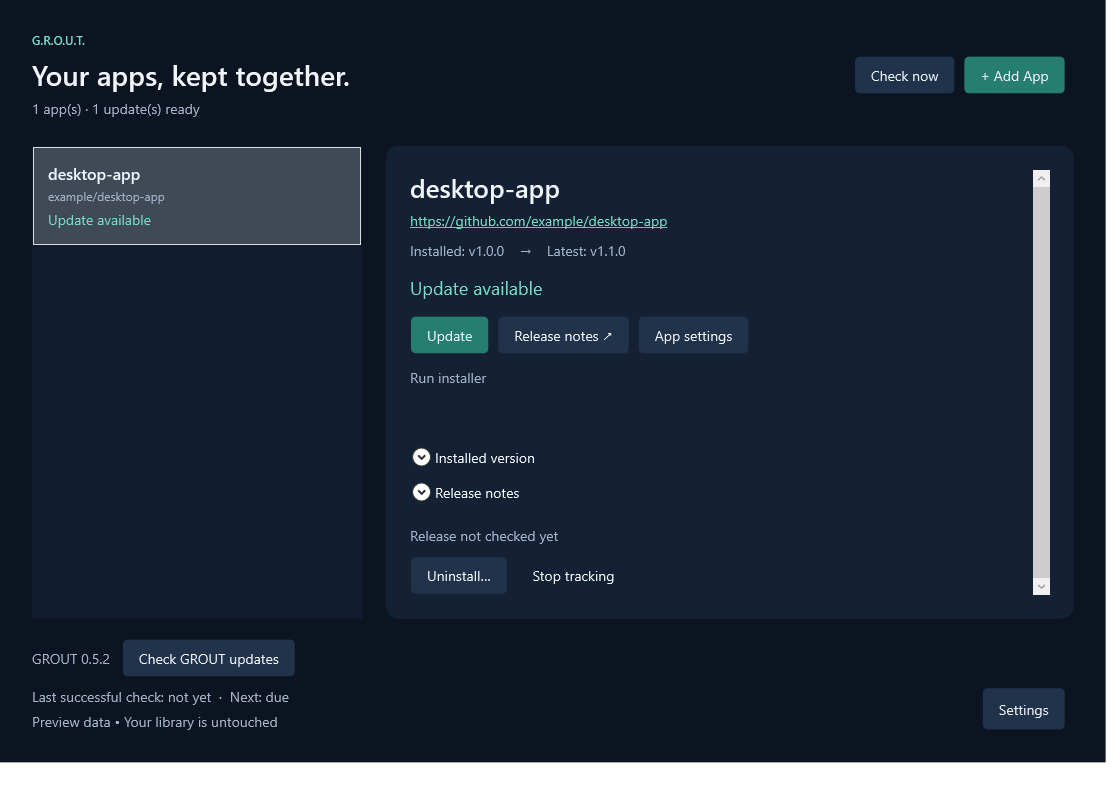
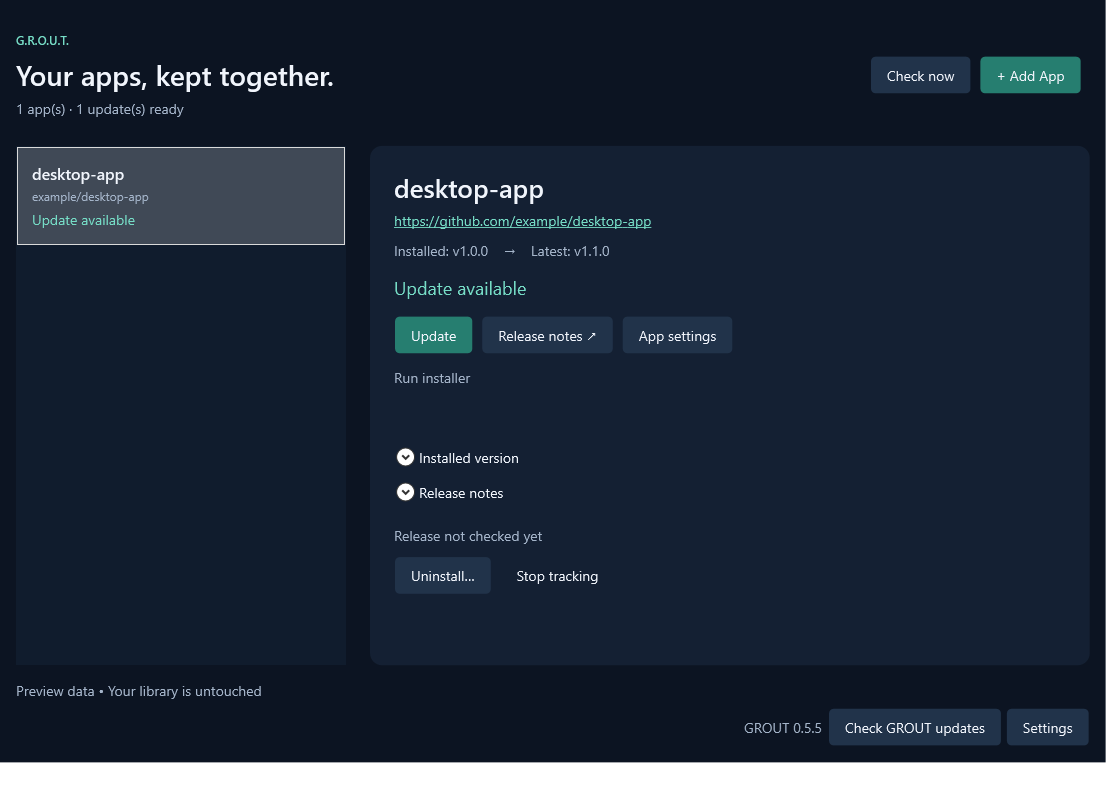
Polish main window spacing and refresh documentation for 0.5.5

diff --git a/ReleaseDock/MainWindow.xaml b/ReleaseDock/MainWindow.xaml
@@ -1,5 +1,5 @@
 <Window x:Class="ReleaseDock.MainWindow" xmlns="http://schemas.microsoft.com/winfx/2006/xaml/presentation" xmlns:x="http://schemas.microsoft.com/winfx/2006/xaml" Title="G.R.O.U.T." Icon="Assets/GROUT.ico" Width="1120" Height="800" MinWidth="940" MinHeight="650" Background="#0C1422" FontFamily="Segoe UI" FontSize="14" WindowStartupLocation="CenterScreen">
- <Grid Margin="32">
+ <Grid Margin="16,32,16,16">
   <Grid.RowDefinitions><RowDefinition Height="Auto"/><RowDefinition Height="*"/><RowDefinition Height="Auto"/></Grid.RowDefinitions>
   <DockPanel Margin="0,0,0,28">
    <WrapPanel DockPanel.Dock="Right" VerticalAlignment="Center" Margin="16,0,0,0"><Button x:Name="CheckButton" Content="Check now" Click="Check_Click"/><Button x:Name="AddAppButton" Content="+ Add App" Click="Add_Click" Background="#267E70"/></WrapPanel>
@@ -35,8 +35,18 @@
     </StackPanel></ScrollViewer>
    </Border>
   </Grid>
-  <StackPanel Grid.Row="2" Margin="0,20,0,0"><WrapPanel Margin="0,0,0,10"><TextBlock x:Name="SelfUpdateLabel" VerticalAlignment="Center" Foreground="#A4B4C9" Margin="0,0,12,0"/><Button x:Name="CheckSelfButton" Content="Check GROUT updates" Click="CheckSelf_Click"/><Button x:Name="InstallSelfButton" Content="Update and restart" Click="InstallSelf_Click" Visibility="Collapsed" Background="#267E70"/></WrapPanel><ProgressBar x:Name="Progress" Height="4" Minimum="0" Maximum="100" Visibility="Collapsed" Margin="0,0,0,10"/><Button x:Name="CancelDownload" Content="Cancel download" Click="Cancel_Click" Visibility="Collapsed" HorizontalAlignment="Left" Margin="0,0,0,10"/>
-   <DockPanel><Button x:Name="SettingsButton" DockPanel.Dock="Right" Content="Settings" Click="Settings_Click"/><StackPanel><TextBlock x:Name="ScheduleLabel" Foreground="#A4B4C9" TextWrapping="Wrap"/><TextBlock x:Name="StatusLabel" Foreground="#A4B4C9" TextWrapping="Wrap" Margin="0,6,12,0"/></StackPanel></DockPanel>
+  <StackPanel Grid.Row="2" Margin="0,16,0,0">
+   <ProgressBar x:Name="Progress" Height="4" Minimum="0" Maximum="100" Visibility="Collapsed" Margin="0,0,0,10"/>
+   <Button x:Name="CancelDownload" Content="Cancel download" Click="Cancel_Click" Visibility="Collapsed" HorizontalAlignment="Left" Margin="0,0,0,10"/>
+   <TextBlock x:Name="StatusLabel" Foreground="#A4B4C9" TextWrapping="Wrap" Margin="0,0,12,8">
+    <TextBlock.Style><Style TargetType="TextBlock"><Style.Triggers><Trigger Property="Text" Value=""><Setter Property="Visibility" Value="Collapsed"/></Trigger></Style.Triggers></Style></TextBlock.Style>
+   </TextBlock>
+   <WrapPanel HorizontalAlignment="Right">
+    <TextBlock x:Name="SelfUpdateLabel" VerticalAlignment="Center" Foreground="#A4B4C9" Margin="0,0,6,0"/>
+    <Button x:Name="CheckSelfButton" Content="Check GROUT updates" Click="CheckSelf_Click" Margin="0,0,4,0"/>
+    <Button x:Name="InstallSelfButton" Content="Update and restart" Click="InstallSelf_Click" Visibility="Collapsed" Background="#267E70" Margin="0,0,4,0"/>
+    <Button x:Name="SettingsButton" Content="Settings" Click="Settings_Click" Margin="0"/>
+   </WrapPanel>
   </StackPanel>
  </Grid>
 </Window>

diff --git a/ReleaseDock/MainWindow.xaml.cs b/ReleaseDock/MainWindow.xaml.cs
@@ -66,7 +66,7 @@ public partial class MainWindow : Window
         };
         Closed += (_, _) => { timer.Stop(); if (tray != null) { tray.Visible = false; tray.ContextMenuStrip?.Dispose(); tray.Dispose(); tray = null; } trayIcon?.Dispose(); trayIcon = null; github.Dispose(); selfUpdater.Dispose(); };
         Activated += (_, _) => { if (!busy && OwnedWindows.Count == 0) ReconcileAll(); };
-        timer.Tick += async (_, _) => { if (busy || OwnedWindows.Count > 0) return; ReconcileAll(); if (preferences.IsDue(DateTimeOffset.UtcNow) && apps.Count > 0) await CheckAll(false); await CheckSelf(false); RenderSchedule(); };
+        timer.Tick += async (_, _) => { if (busy || OwnedWindows.Count > 0) return; ReconcileAll(); if (preferences.IsDue(DateTimeOffset.UtcNow) && apps.Count > 0) await CheckAll(false); await CheckSelf(false); };
         timer.Start();
         Loaded += async (_, _) =>
         {
@@ -138,12 +138,6 @@ public partial class MainWindow : Window
     internal bool TrayVisible => tray?.Visible == true;
     private void Persist() { if (preview) return; if (!busy && OwnedWindows.Count == 0) StorageCleanup.Sweep(apps); store.Save(apps); preferences.SourceBackoffs = github.Backoffs; preferences.Save(preferencesPath); Library.Items.Refresh(); }
     private void SafePersist() { try { Persist(); } catch (Exception ex) { StatusLabel.Text = "Could not save: " + ex.Message; } }
-    private void RenderSchedule()
-    {
-        var last = preferences.LastSuccess is { } time ? time.ToLocalTime().ToString("g") : "not yet";
-        var next = preferences.NextCheck is { } due ? due <= DateTimeOffset.UtcNow ? "due" : due.ToLocalTime().ToString("g") : "manual only";
-        ScheduleLabel.Text = $"Last successful check: {last}  ·  Next: {next}";
-    }
     private void Render()
     {
         var app = Current;
@@ -178,7 +172,7 @@ public partial class MainWindow : Window
         KeepTrackingButton.Visibility = app?.UninstallPending == true ? Visibility.Visible : Visibility.Collapsed;
         Notes.Text = app?.Release?.Notes ?? "Check for releases to load notes.";
         CheckedLabel.Text = app?.CheckedAt is { } time ? $"Release checked {time.ToLocalTime():g}" : "Release not checked yet";
-        RenderSchedule();
+
     }
     private void ReconcileAll()
     {
@@ -241,7 +235,7 @@ public partial class MainWindow : Window
     private void Settings_Click(object sender, RoutedEventArgs e)
     {
         if (busy || preview || OwnedWindows.Count > 0) return;
-        try { if (SettingsWindow.Show(this, preferences)) { RenderSchedule(); StatusLabel.Text = "Settings saved."; } }
+        try { if (SettingsWindow.Show(this, preferences)) { StatusLabel.Text = "Settings saved."; } }
         catch (Exception ex) { StatusLabel.Text = ex.Message; }
     }
     private void Selected(object sender, SelectionChangedEventArgs e) { Render(); VersionSection.IsExpanded = Current is { } app && (app.Installed.Length == 0 || app.LocalError); }

diff --git a/ReleaseDock/App.xaml.cs b/ReleaseDock/App.xaml.cs
@@ -86,10 +86,7 @@ public partial class App : Application
                 }
                 window.Show();
                 await System.Windows.Threading.Dispatcher.Yield(System.Windows.Threading.DispatcherPriority.ApplicationIdle);
-                var bitmap = new RenderTargetBitmap((int)window.ActualWidth, (int)window.ActualHeight, 96, 96, PixelFormats.Pbgra32);
-                bitmap.Render(window);
-                var encoder = new PngBitmapEncoder(); encoder.Frames.Add(BitmapFrame.Create(bitmap));
-                using (var file = File.Create(output)) encoder.Save(file);
+                SavePreview(window, output);
                 window.Close(); Shutdown(); return;
             }
             if (e.Args is ["--preview-setup", var setupOutput])
@@ -98,16 +95,13 @@ public partial class App : Application
                 var window = new SetupWindow(github, [], preview: true);
                 window.Show();
                 await System.Windows.Threading.Dispatcher.Yield(System.Windows.Threading.DispatcherPriority.ApplicationIdle);
-                var bitmap = new RenderTargetBitmap((int)window.ActualWidth, (int)window.ActualHeight, 96, 96, PixelFormats.Pbgra32);
-                bitmap.Render(window);
-                var encoder = new PngBitmapEncoder(); encoder.Frames.Add(BitmapFrame.Create(bitmap));
-                using (var file = File.Create(setupOutput)) encoder.Save(file);
+                SavePreview(window, setupOutput);
                 window.Close(); Shutdown(); return;
             }
             if (e.Args is ["--preview-app-settings", var settingsOutput])
             {
                 using var github = new ReleaseClient();
-                var sample = new TrackedApp { Repo = "example/desktop-app", Installed = "1.0.36.0", Latest = "hub-1.0.36", InstallLocation = @"C:\Apps\MultiverseVRHub.exe", UpdateMethod = "ReplaceExe", AssetName = "MultiverseVRHub.exe", Release = new("hub-1.0.36", "", "", [new("MultiverseVRHub.exe", "", 5760000, null)]) };
+                var sample = new TrackedApp { Repo = "example/desktop-app", Installed = "1.0.0", Latest = "v1.1.0", InstallLocation = @"C:\Apps\DesktopApp\DesktopApp.exe", UpdateMethod = "ReplaceExe", AssetName = "DesktopApp.exe", Release = new("v1.1.0", "", "", [new("DesktopApp.exe", "", 5760000, null)]) };
                 var window = new SetupWindow(github, [], edit: sample); window.Show();
                 await System.Windows.Threading.Dispatcher.Yield(System.Windows.Threading.DispatcherPriority.ApplicationIdle);
                 SavePreview(window, settingsOutput); window.Close(); Shutdown(); return;

diff --git a/ReleaseDock/SetupWindow.cs b/ReleaseDock/SetupWindow.cs
@@ -70,7 +70,7 @@ public sealed class SetupWindow : Window
         {
             Result = new() { Repo = "example/desktop-app", Installed = "v1.0.0", Latest = "v1.1.0", InstallLocation = @"C:\Apps\DesktopApp", UpdateTarget = @"C:\Apps\DesktopApp", UpdateMethod = "Installer", Release = new("v1.1.0", "", "", [new("DesktopApp-1.1.0-x64.exe", "", 100000, null)]) };
             if (previewStage == "first") { ScreenOne(); lookupTimer.Stop(); }
-            else { newInstall = previewStage is "install" or "portable"; if (newInstall) { SetupPaths.ClearExistingTracking(Result); if (previewStage == "portable") Result.UpdateMethod = "ReplaceExe"; } ScreenTwo(); }
+            else { newInstall = previewStage is "install" or "portable"; if (newInstall) { SetupPaths.ClearExistingTracking(Result); Result.UpdateTarget = @"C:\Apps"; if (previewStage == "portable") Result.UpdateMethod = "ReplaceExe"; } ScreenTwo(); }
         }
         else ScreenOne();
     }

diff --git a/ReleaseDock/WizardTests.cs b/ReleaseDock/WizardTests.cs
@@ -93,7 +93,7 @@ public static class WizardTests
             main.Show();
             Check(main.IsVisible, "Hidden main window can reopen");
             Check(Children<Button>(main).Single(b => Equals(b.Content, "Update")).IsEnabled, "Cached checked release enables Update after restart");
-            Check(Children<TextBlock>(main).Any(t => t.Text.Contains("manual only")), "Manual polling schedule is visible");
+            Check(!Children<TextBlock>(main).Any(t => t.Text.Contains("Last successful check:")), "Footer omits polling timestamps");
             main.StopWindow();
             Check(!main.TrayVisible, "Explicit stop removes tray icon");
         }

diff --git a/docs/user-guide.md b/docs/user-guide.md
@@ -19,7 +19,9 @@ Tracking an existing app does not require a usable Windows download or successfu
 
 ### Portable EXE
 
-Choose **Save as a portable app**, select **Save in folder**, and confirm the filename and full destination. **Save and add app** saves the EXE without running it. Future updates replace that exact file.
+Choose **Save as a portable app**, select **Save in folder**, and confirm the filename and full destination. **Save and add app** saves the EXE without running it. Future updates replace that exact file without a file-review screen.
+
+<img src="images/portable-exe.png" alt="Portable EXE setup with one destination folder, filename and Save and add app button" width="580">
 
 GROUT records the release it saved. If the EXE supplies matching version metadata, automatic version reading is enabled. If metadata is missing or differs, GROUT retains the applied release and explains its source instead of treating the file save as a failure.
 
@@ -43,7 +45,7 @@ Cancelling setup does not add an app to the library or undo an installation alre
 
 **App settings** has one **App folder** field. For portable EXEs, **App file** is a filename; GROUT derives and displays the full replacement path. You can edit the app's display name here too.
 
-<img src="images/app-settings.png" alt="App settings with the app name, folder, release download and update method" width="580">
+<img src="images/app-settings.png" alt="App settings showing an editable repository URL, app name, app folder, app filename and update method" width="580">
 
 | Update method | Behavior |
 | --- | --- |
@@ -58,7 +60,7 @@ The selected download is remembered across version-number changes when the same 
 
 ZIP updates overwrite every included file, including matching settings/save files. Files absent from the archive are left unchanged. There is no file-selection screen.
 
-Temporary rollback copies protect a file update while it is applied. Completed updates **do not retain recovery backups**. If an operation cannot roll back safely, recovery information is retained for troubleshooting.
+Temporary rollback copies protect a file update internally while it is applied; there is no backup setup or backup-review screen. Completed updates **do not retain recovery backups**. If an operation cannot roll back safely, recovery information is retained for troubleshooting.
 
 ## Installed versions
 
@@ -81,9 +83,11 @@ Use **Installed version** to recheck once, enter a version, or **Mark latest as 
 
 GROUT checks saved locations even for manually tracked apps. Missing locations show **App not found**, with **Find installation** and **Stop tracking** as the main choices. Update, uninstall and version editing are disabled until the location is resolved. The previous version stays labeled as the last known version.
 
+<img src="images/missing-app.png" alt="App not found banner with Find installation and Stop tracking choices and disabled update controls" width="850">
+
 ## Checks, tray and startup
 
-In **Settings**, choose **Manual only**, **Every hour**, **Every 6 hours**, or **Every day** for tracked-app release checks. Daily is the default. Due checks run on launch and after wake; last-success and next-check times appear in the main window. Source-specific rate-limit/access pauses survive restarts.
+In **Settings**, choose **Manual only**, **Every hour**, **Every 6 hours**, or **Every day** for tracked-app release checks. Daily is the default. Due checks run on launch and after wake. Source-specific rate-limit/access pauses survive restarts.
 
 Closing the window leaves GROUT in the tray. Double-click the icon to reopen it, or right-click for **Open**, **Check now**, **Settings** and **Exit**. Exit stops checking.
 
@@ -93,7 +97,7 @@ Notifications announce new app/release tags once. **Quiet mode** suppresses them
 
 ## Update GROUT itself
 
-GROUT checks this repository's stable releases on startup and daily, separately from the tracked-app schedule. Turn this off with **Check for GROUT updates automatically (daily)** in Settings, or use **Check GROUT updates** manually.
+GROUT checks this repository's stable releases on startup and daily, separately from the tracked-app schedule. Turn this off with **Check for GROUT updates automatically (daily)** in Settings, or use **Check GROUT updates** manually. The GROUT version and update controls sit immediately to the left of **Settings** at the bottom right of the main window.
 
 Choose **Update and restart** when a newer release is available. GROUT verifies the EXE against the exact release SHA-256 checksum, prepares a helper, closes the running instance, replaces its EXE and relaunches it. Library and settings remain intact. Protected folders may need a manual update; no silent elevation is attempted.
 

diff --git a/TRACKER.md b/TRACKER.md
@@ -225,3 +225,15 @@
 - User explicitly rejected file-conflict review: files must be overwritten directly, and temporary rollback must be internal with no user-facing screen. Removed operational ZIP and portable-EXE overwrite reviews for both fresh installs and updates. ZIP plans apply every archive file, including existing settings/save files; absent files remain unchanged.
 - Removed the review dialog/preview command and backup/apply button wording. Updated setup/settings text and documentation to describe direct extraction/overwrite. Archive validation, safe paths, atomic writes and transient rollback on failures remain internal. No completed rollback copies are retained.
 - Packaged suite passed:17 ZIP-folder assertions cover new, conflicting first install, existing update, settings overwrite, absent-file preservation and scratch cleanup with review hooks that fail if invoked. Portable overwrite regression completes with no review and no retained backup. No real user app files changed during tests.
+
+## 2026-11-01 — Documentation and screenshot refresh
+
+- User requested a documentation agent to audit the documentation and stale screenshots after the footer/layout changes. Audited README, all six docs guides and SECURITY.md against current code; historical release notes remain historical.
+- Updated current interface caption, direct portable/ZIP overwrite explanations, silent temporary rollback, bottom-right self-update controls, removed polling timestamp claims and obsolete --preview-files diagnostic, and refreshed publishing examples using an explicitly illustrative next version.
+- Regenerated library, Add App and App settings previews; added portable EXE and missing-installation images to the user guide. Main-window previews include compact footer and narrower side margins. Previews use isolated sample data; portable setup now uses neutral C:\Apps rather than the current user's profile, and App settings uses a consistent DesktopApp sample.
+- Release build passed without warnings/errors; all five preview commands completed successfully, screenshots were visually inspected, 37 local documentation file/image references resolved, and git diff --check passed. No release published or user library changed.
+
+## 0.5.5 release
+- Approved compact main-window footer and margins; removed polling timestamp line without changing scheduling.
+- Refreshed documentation/screenshots and preview sample data. Full packaged regression suite and documentation links verified.
+

diff --git a/docs/troubleshooting.md b/docs/troubleshooting.md
@@ -27,7 +27,7 @@ Check the visible status and App settings. Common reasons include:
 - The release check failed or the source is in a rate-limit/access pause.
 - No unambiguous Windows asset matches the saved download choice.
 
-If an asset was renamed, select the correct download again. **Show all downloads** can expose unusual filenames. A successful version read does not prove all files are current, especially after a partial ZIP update.
+If an asset was renamed, select the correct download again. **Show all downloads** can expose unusual filenames. A successful version read does not prove all files are current, including files omitted from a release archive.
 
 ## No usable release or download is shown
 
@@ -49,6 +49,10 @@ GROUT attempts rollback if file application fails. Completed operations do not k
 
 Download cancellation leaves destination files unchanged. Once application begins, it completes or attempts rollback rather than cancelling midway through writes.
 
+## ZIP files or settings were overwritten
+
+ZIP installs and updates apply every archive file directly, including matching settings/save files. There is no conflict-review screen. Files not present in the archive remain unchanged, and the archive folder structure is preserved. Temporary rollback is internal and completed updates do not retain backups.
+
 ## Notifications or startup do not behave as expected
 
 - Closing the window keeps GROUT in the tray; **Exit** stops checks.
@@ -58,7 +62,7 @@ Download cancellation leaves destination files unchanged. Once application begin
 
 ## GROUT does not update itself
 
-Use **Check GROUT updates** to retry. Only newer stable releases with the expected Windows x64 EXE and checksum file are offered. Previews and older versions are not installed.
+Use **Check GROUT updates**, beside **Settings** at the bottom right, to retry. Only newer stable releases with the expected Windows x64 EXE and checksum file are offered. Previews and older versions are not installed.
 
 Version 0.4.x needs a manual upgrade to 0.5.0 first. Keep the EXE in a permanent writable folder; protected locations may require manual replacement. Self-updates require no GitHub CLI or authentication.
 

diff --git a/docs/releasing.md b/docs/releasing.md
@@ -38,16 +38,16 @@ If a running local release EXE locks the output, a separate `build-*` subfolder 
 ## Publish a new version
 
 1. Update `<Version>` in [`ReleaseDock/ReleaseDock.csproj`](../ReleaseDock/ReleaseDock.csproj).
-2. Add notes under `releases/`, for example `releases/v0.5.1.md` for a new 0.5.1 release.
+2. Add notes under `releases/`, for example `releases/v0.6.0.md` for a new 0.6.0 release (substitute the next version you intend to publish).
 3. Commit the code and notes on `main`. The checkout must be clean and origin must match the target repository.
 4. Publish:
 
 ```powershell
 dotnet tool run dotnet-script -- scripts/release.csx -- `
-  --notes releases/v0.5.1.md --publish
+  --notes releases/v0.6.0.md --publish
 ```
 
-This example assumes the project has already been changed to 0.5.1. Optional `--version` must match the project; it does not edit it.
+This example assumes the project has already been changed to 0.6.0. Optional `--version` must match the project; it does not edit it.
 
 The script builds in a new directory, enforces single-EXE output and runs packaged tests. It pushes `main`, creates a draft release targeting the tested commit, uploads all five assets and verifies their SHA-256 digests and sizes. Only then does it publish as latest. Repository visibility is unchanged.
 
@@ -63,7 +63,7 @@ Existing releases are never overwritten, including drafts. If uploading or verif
 | `--publish` | Push and publish after successful checks |
 | `-h`, `--help` | Show help |
 
-Unknown, duplicate or incomplete flags fail with usage. `--notes` paths resolve from where you invoked the command. From `scripts`, use `../releases/v0.5.1.md`.
+Unknown, duplicate or incomplete flags fail with usage. `--notes` paths resolve from where you invoked the command. From `scripts`, use `../releases/v0.6.0.md`.
 
 ## Push source changes without releasing
 

diff --git a/README.md b/README.md
@@ -12,7 +12,7 @@ Great apps on Git repositories do not always include an updater. GROUT fills tha
 
 <img src="docs/images/library.png" alt="GROUT library showing installed and latest versions with update controls" width="850">
 
-*GROUT 0.5.2 with sample data.*
+*Current 0.5.5 interface with sample data.*
 
 ## What it does
 
@@ -27,7 +27,7 @@ Great apps on Git repositories do not always include an updater. GROUT fills tha
 
 1. Download **GROUT.exe** from the [latest release](https://github.com/sirkuttin/GROUT/releases/latest), save it in a permanent writable folder, and run it.
 2. Choose **Add App**, paste a supported repository or release link, then choose to track an existing app or install it.
-3. Choose the Windows download and how updates should work. GROUT shows the destination before applying file updates.
+3. Choose the Windows download and how updates should work. GROUT shows the destination before applying file updates; ZIPs and portable EXEs overwrite matching files directly.
 
 The Windows x64 download is a **single portable EXE** with .NET included. No installer, adjacent DLLs or separate .NET installation is required. Your library and settings live in AppData; see [storage and cleanup](docs/user-guide.md#storage-and-cleanup).
 

diff --git a/releases/v0.5.5.md b/releases/v0.5.5.md
@@ -1,0 +1,14 @@
+### A more compact main window
+
+- Moved the GROUT version, Check GROUT updates and Update and restart controls beside Settings at the bottom right.
+- Removed the last-successful-check and next-check timestamp line. Scheduled checks continue normally.
+- Tightened footer button spacing and reduced the bottom and side margins, with matching spacing above the footer.
+- Empty status messages no longer leave a blank gap.
+
+### Refreshed documentation
+
+- Updated the README and guides to match current installation, overwrite, repository editing and uninstall behavior.
+- Refreshed screenshots and added portable EXE and missing-app examples using neutral sample data.
+- Removed obsolete preview commands and refreshed release instructions.
+
+Existing app library and settings carry over. The full packaged regression suite passes.

diff --git a/docs/development.md b/docs/development.md
@@ -67,10 +67,9 @@ GROUT.exe --preview-app-settings PNG_PATH
 GROUT.exe --preview-setup-first PNG_PATH
 GROUT.exe --preview-install PNG_PATH
 GROUT.exe --preview-portable PNG_PATH
-GROUT.exe --preview-files PNG_PATH
 ```
 
-Documentation [screenshots](images/) come from these previews. Use sample paths and avoid personal library details in public screenshots.
+Documentation [screenshots](images/) come from these previews. Build the current source first, then render the library, add-app, app-settings, portable and missing-app states. Preview commands use neutral sample paths and render the current app UI without loading your library. Inspect every PNG before replacing a public screenshot.
 
 ## Local files and notices
 
